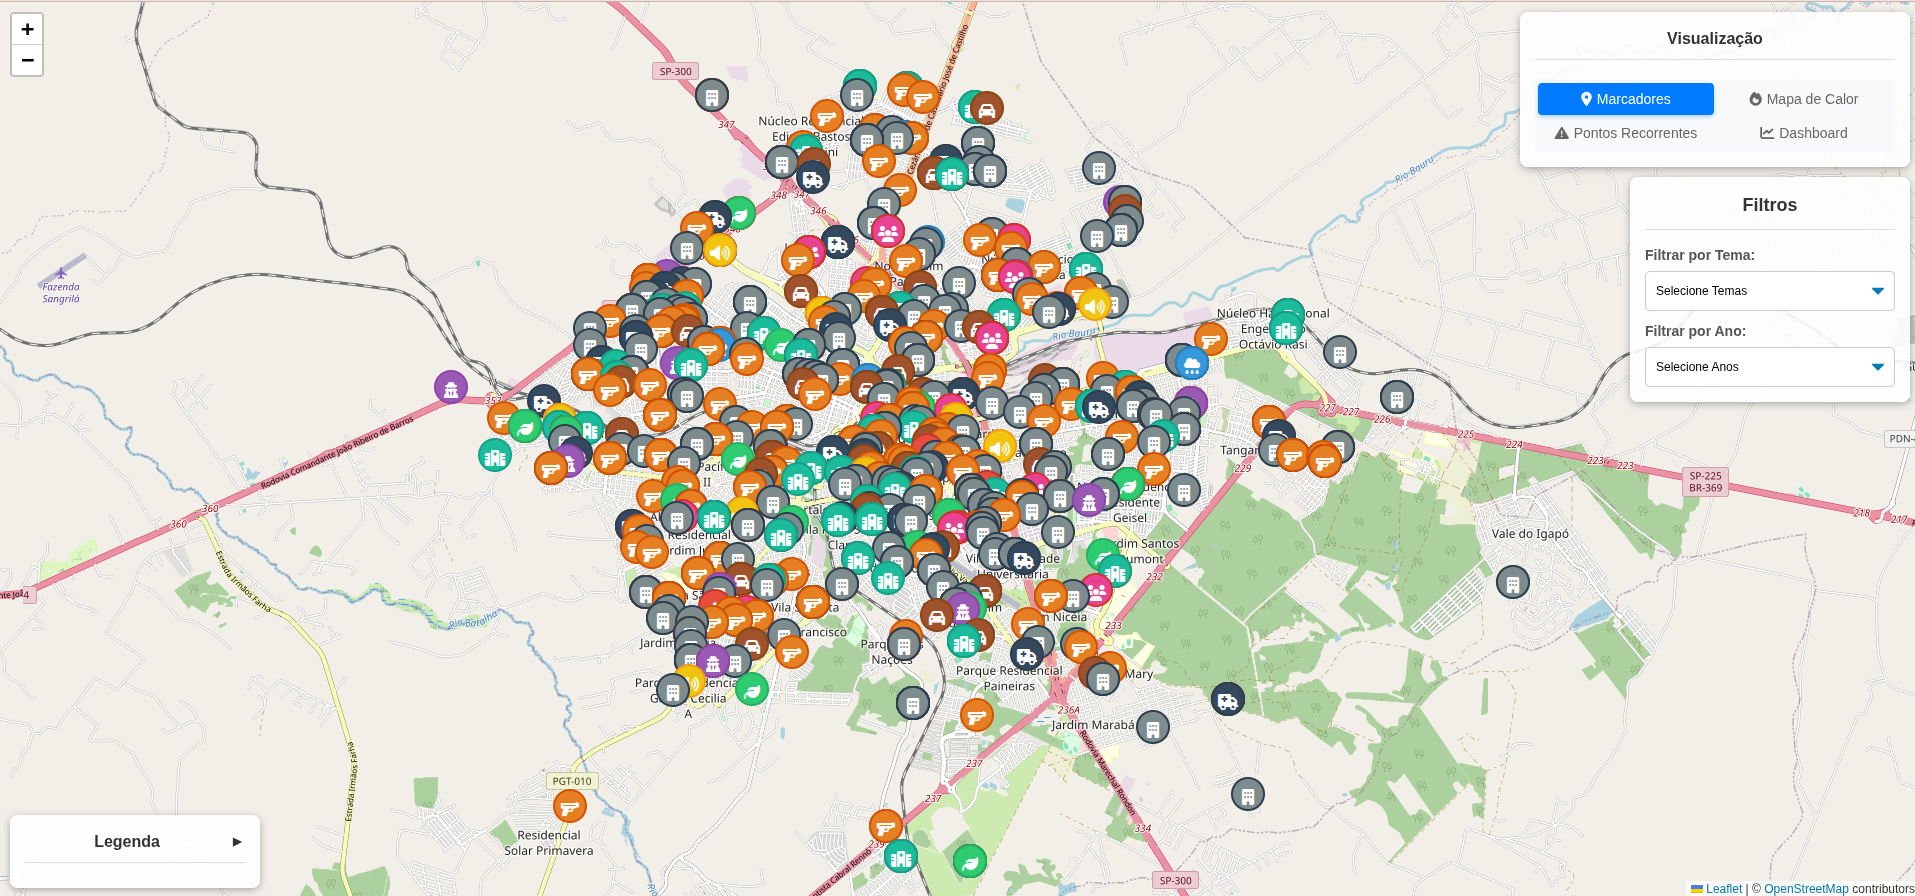
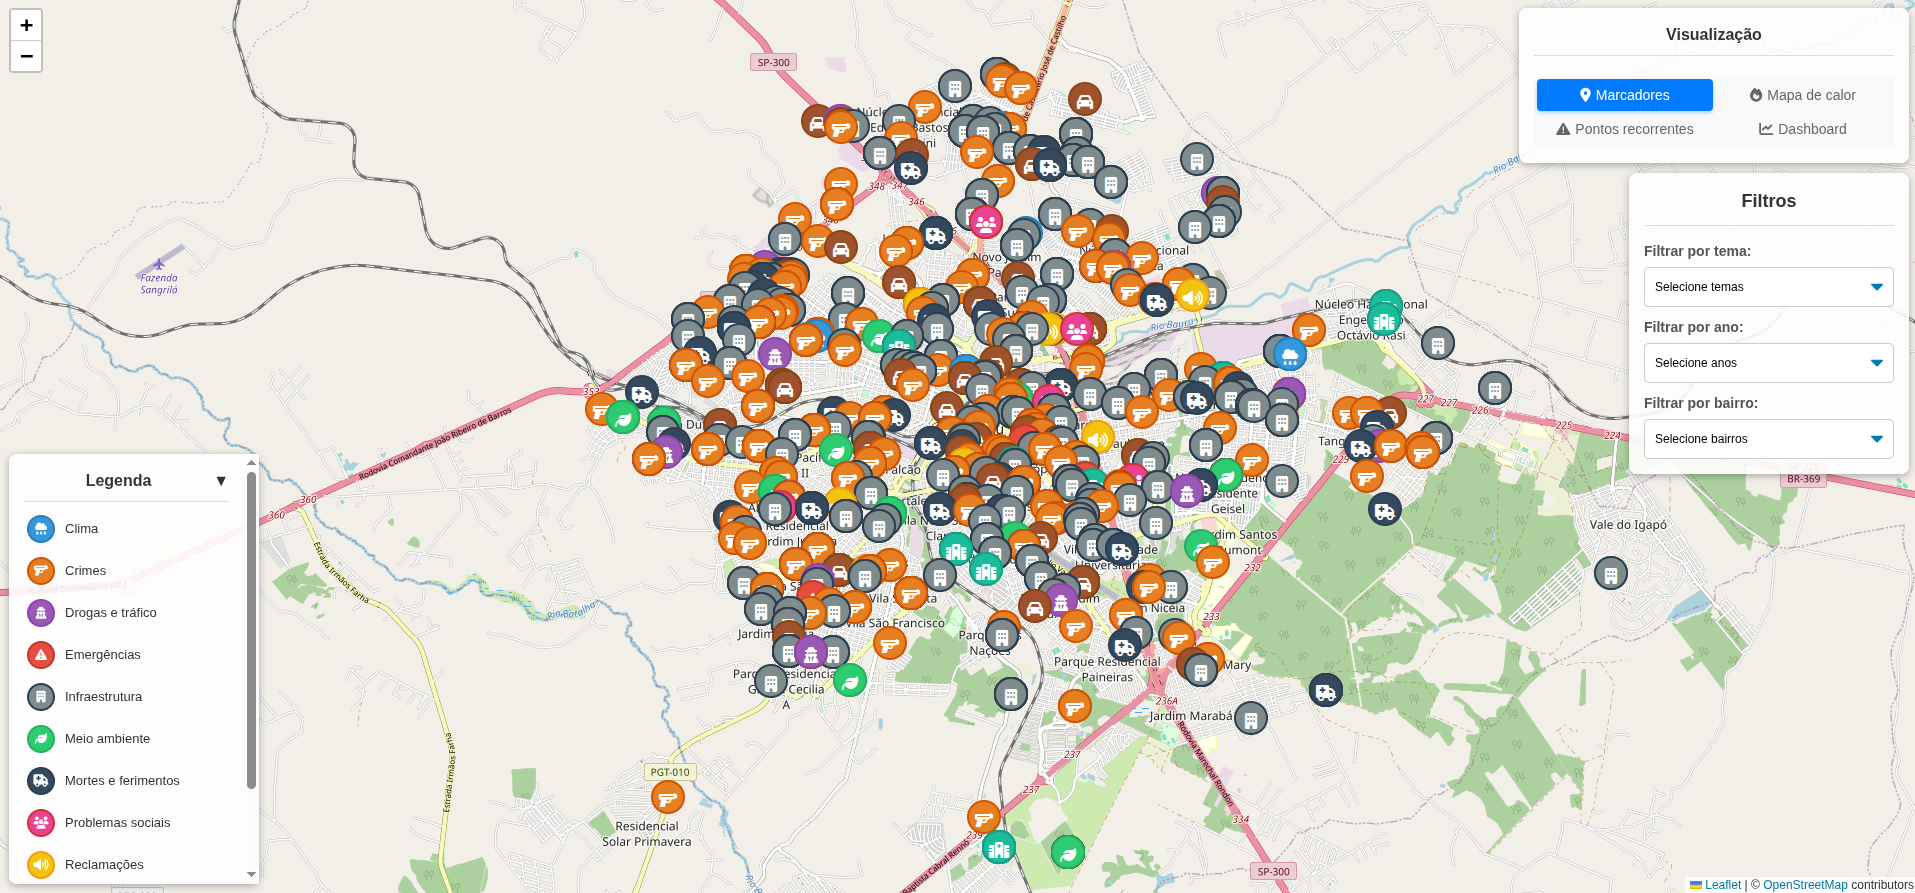
update README

diff --git a/README.md b/README.md
@@ -11,7 +11,7 @@ Um Sistema de Informação Geográfica (SIG) para mapeamento e análise de ocorr
 ## Funcionalidades
 - Mapeamento de ocorrências urbanas
 - Visualização com marcadores, mapa de calor, pontos recorrentes ou dashboard
-- Filtros por tipo de ocorrência e ano
+- Filtros por tipo de ocorrência, ano e bairros
 
 ## Instalação
 1. Clone o repositório:
